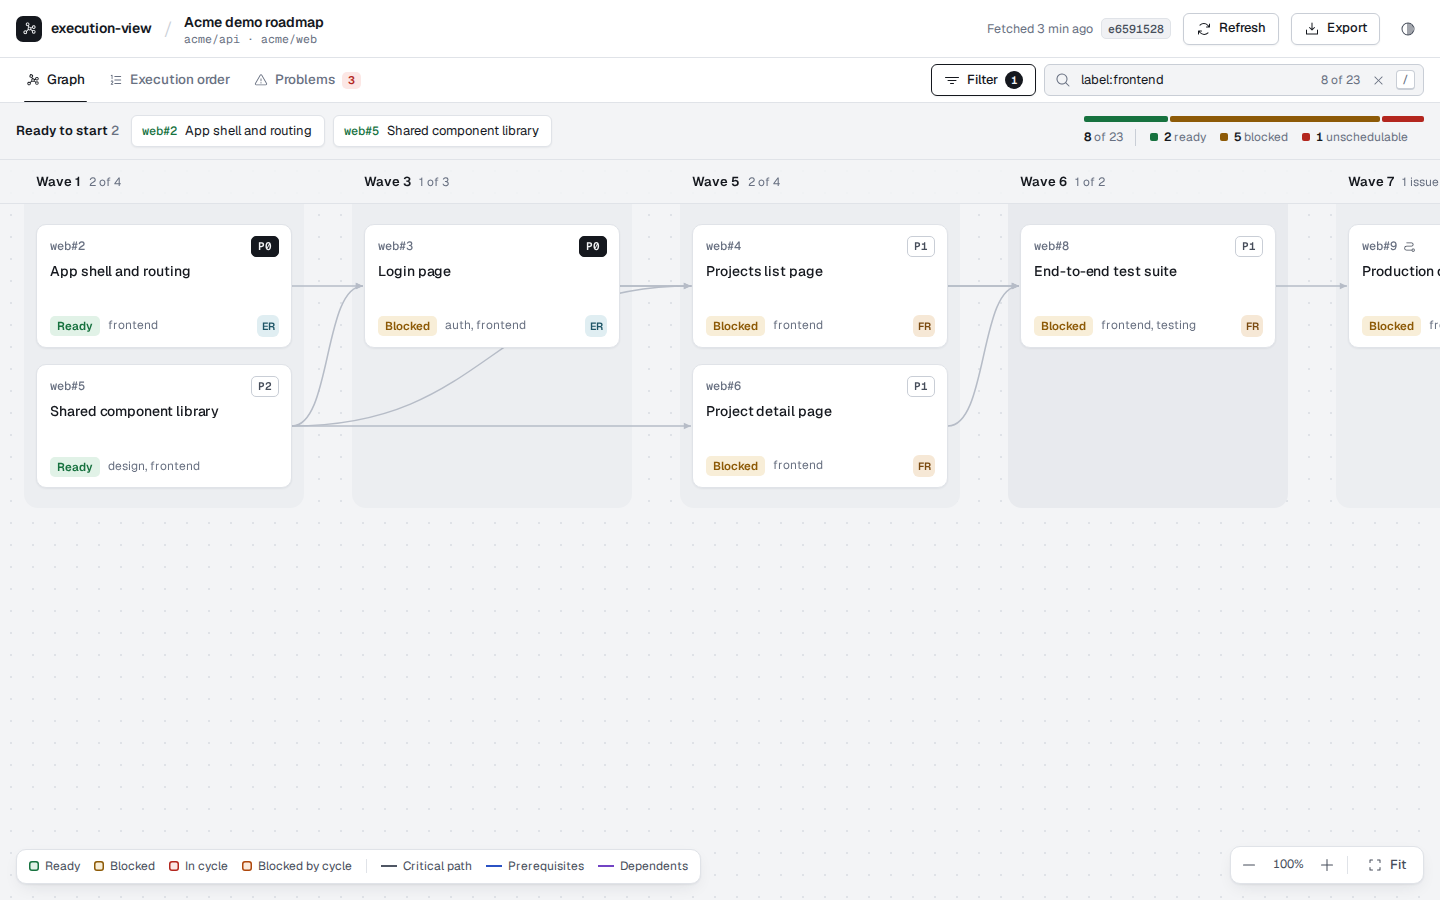
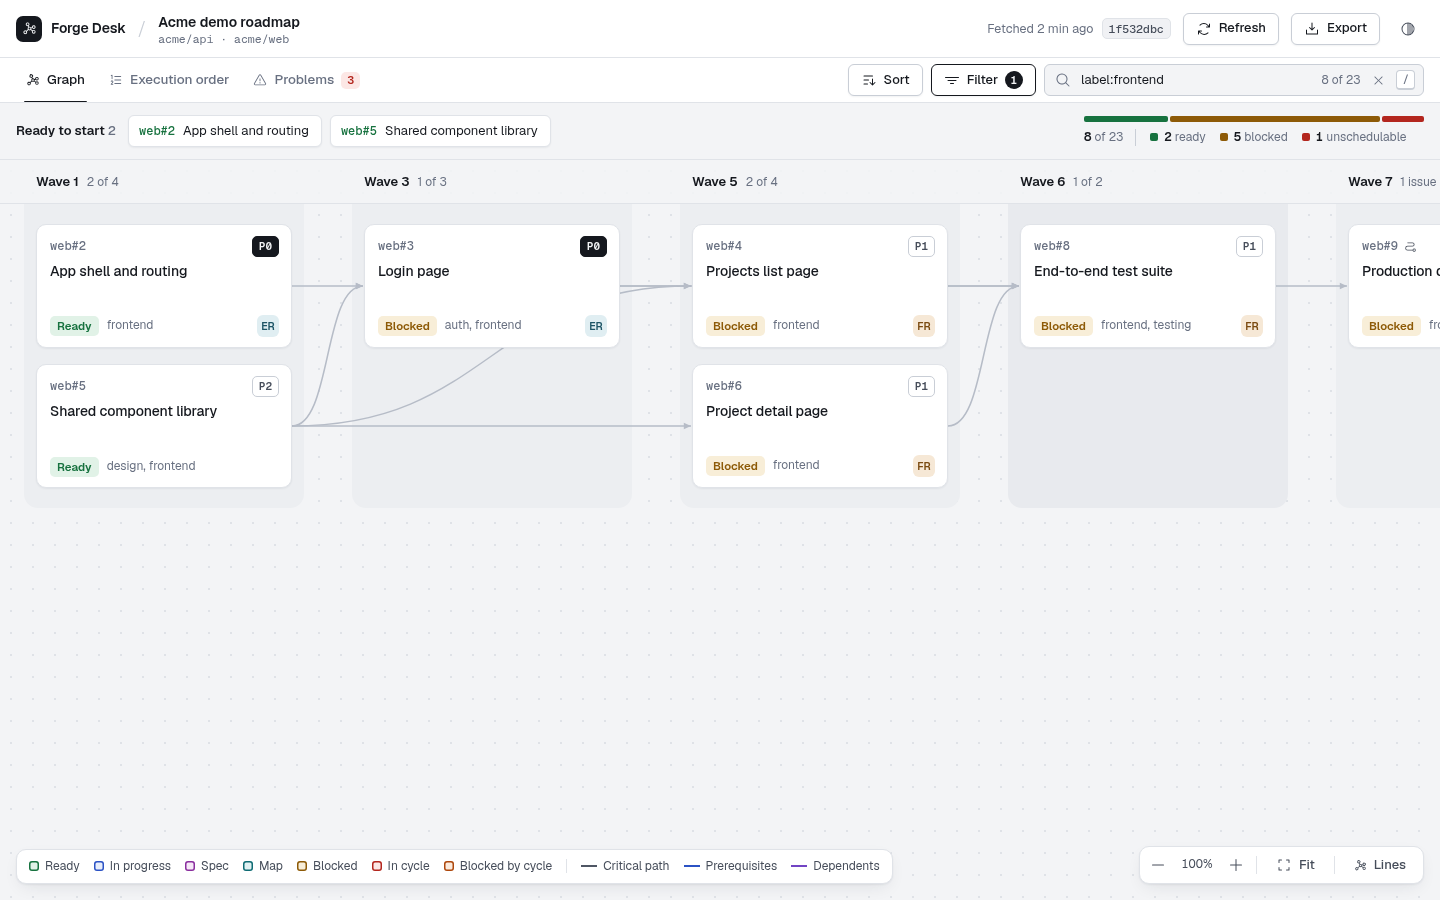
Show Forge Desk branding in the UI, CLI and docs
Rename the user-visible product strings: login page heading and title, app
header brand and version label, browser tab titles, the not-built page and the
web UI network error. Add a forge-desk executable next to the execution-view
compatibility alias; both run the same CLI, and help follows the invoked name
while execution-view output stays unchanged.

Describe the name change in the user and contributor docs, keep the image
registry path, and refresh the documentation screenshots. The npm package,
execution-view command, image, repository, User-Agent, DOT graph id,
localStorage keys and server log lines keep execution-view.

diff --git a/src/cli/main.test.ts b/src/cli/main.test.ts
@@ -6,7 +6,7 @@ import { afterEach, describe, expect, it, vi } from 'vitest';
 import { loadConfig } from '../config/load.js';
 import { exporters, type ExportFormat } from '../export/index.js';
 import { PlanService } from '../service/planService.js';
-import { main, type CliDeps, type CliIo } from './main.js';
+import { main, programNameFor, type CliDeps, type CliIo } from './main.js';
 
 const ROOT = fileURLToPath(new URL('../../', import.meta.url));
 const FIXED_NOW = new Date('2026-01-02T03:04:05.000Z');
@@ -411,6 +411,35 @@ describe('help and version', () => {
     const r = await run(['frobnicate']);
     expect(r.code).toBe(1);
     expect(r.stderr).toContain('frobnicate');
+  });
+});
+
+describe('executable names', () => {
+  it('installs forge-desk as the same CLI as the execution-view alias', async () => {
+    const pkg = JSON.parse(readFileSync(path.join(ROOT, 'package.json'), 'utf8')) as {
+      bin: Record<string, string>;
+    };
+    expect(pkg.bin).toEqual({
+      'forge-desk': 'dist/cli/index.js',
+      'execution-view': 'dist/cli/index.js',
+    });
+    expect(programNameFor('/usr/local/bin/forge-desk')).toBe('forge-desk');
+    expect(programNameFor('/usr/local/bin/execution-view')).toBe('execution-view');
+    expect(programNameFor('dist/cli/index.js')).toBe('execution-view');
+
+    // The renamed executable runs the same commands with the same output and exit code.
+    const legacy = await run(['views', '--config', 'config.demo.yaml']);
+    const renamed = await run(['views', '--config', 'config.demo.yaml'], {
+      programName: programNameFor('/usr/local/bin/forge-desk'),
+    });
+    expect(legacy.code).toBe(0);
+    expect(renamed).toEqual(legacy);
+
+    // Help and usage follow the invoked name; the alias name stays unchanged.
+    expect((await run(['--help'])).stdout).toContain('Usage: execution-view');
+    expect((await run(['--help'], { programName: 'forge-desk' })).stdout).toContain(
+      'Usage: forge-desk',
+    );
   });
 });
 

diff --git a/src/server/app.ts b/src/server/app.ts
@@ -35,10 +35,10 @@ const UI_NOT_BUILT_HTML = `<!doctype html>
   <head>
     <meta charset="utf-8" />
     <meta name="viewport" content="width=device-width, initial-scale=1" />
-    <title>execution-view</title>
+    <title>Forge Desk</title>
   </head>
   <body>
-    <h1>execution-view</h1>
+    <h1>Forge Desk</h1>
     <p>The web UI is not built. Run <code>npm run build</code> to create it.</p>
     <p>The API is available: <a href="/api/views">/api/views</a></p>
   </body>
@@ -57,7 +57,7 @@ function loginPage(failed: boolean): string {
     <meta charset="utf-8" />
     <meta name="viewport" content="width=device-width, initial-scale=1" />
     <meta name="color-scheme" content="light dark" />
-    <title>Log in · execution-view</title>
+    <title>Log in · Forge Desk</title>
     <script>
       try {
         var theme = localStorage.getItem('execution-view:theme');
@@ -156,7 +156,7 @@ function loginPage(failed: boolean): string {
   </head>
   <body>
     <form method="post" action="login">
-      <h1>execution-view</h1>
+      <h1>Forge Desk</h1>
       ${failed ? '<p class="error" role="alert">Wrong user name or password.</p>' : ''}
       <label for="username">User name</label>
       <input id="username" name="username" autocomplete="username" required autofocus />

diff --git a/src/server/app.test.ts b/src/server/app.test.ts
@@ -406,6 +406,8 @@ describe('login page', () => {
     expect(res.statusCode).toBe(200);
     expect(res.headers['content-type']).toContain('text/html');
     expect(res.body).toContain('<form method="post" action="login">');
+    expect(res.body).toContain('<title>Log in · Forge Desk</title>');
+    expect(res.body).toContain('<h1>Forge Desk</h1>');
     expect(res.body).toContain('name="username" autocomplete="username"');
     expect(res.body).toMatch(/name="password"\s+type="password"\s+autocomplete="current-password"/);
   });
@@ -688,6 +690,8 @@ describe('static UI', () => {
     expect(res.statusCode).toBe(200);
     expect(res.headers['content-type']).toContain('text/html');
     expect(res.body).toContain('not built');
+    expect(res.body).toContain('<title>Forge Desk</title>');
+    expect(res.body).toContain('<h1>Forge Desk</h1>');
     expect(res.body).toContain('href="/api/views"');
     const other = await app.inject({ url: '/deep', headers: { accept: 'text/html' } });
     expect(other.statusCode).toBe(404);

diff --git a/src/cli/main.ts b/src/cli/main.ts
@@ -22,6 +22,13 @@ export interface CliDeps {
   providerFor?: (source: ResolvedSource) => IssueProvider;
   now?: () => Date;
   startServer?: typeof startServer;
+  /** Name shown in help and usage. Default: the `execution-view` compatibility name. */
+  programName?: string;
+}
+
+/** The name this CLI was installed as: `forge-desk`, or its `execution-view` compatibility name. */
+export function programNameFor(invokedPath: string | undefined): string {
+  return path.basename(invokedPath ?? '') === 'forge-desk' ? 'forge-desk' : 'execution-view';
 }
 
 /** Exit codes. */
@@ -260,7 +267,7 @@ export async function main(argv: string[], io: CliIo, deps: CliDeps = {}): Promi
 
   const program = new Command();
   program
-    .name('execution-view')
+    .name(deps.programName ?? 'execution-view')
     .description('Deterministic dependency graph and execution order for open issues')
     .version(packageVersion())
     .option(

diff --git a/web/src/views/header.ts b/web/src/views/header.ts
@@ -238,7 +238,7 @@ export function createHeader(ctx: ViewCtx): View {
               h('button', { class: 'menu-item', type: 'submit', role: 'menuitem' }, 'Log out'),
             ),
           ]),
-      ...(version === null ? [] : [h('div', { class: 'menu-label' }, `execution-view ${version}`)]),
+      ...(version === null ? [] : [h('div', { class: 'menu-label' }, `Forge Desk ${version}`)]),
     ],
   );
 
@@ -249,7 +249,7 @@ export function createHeader(ctx: ViewCtx): View {
       'div',
       { class: 'brand' },
       h('span', { class: 'brand-mark', 'aria-hidden': 'true' }, icon('graph', 15)),
-      h('span', { class: 'brand-name' }, 'execution-view'),
+      h('span', { class: 'brand-name' }, 'Forge Desk'),
     ),
     h('span', { class: 'crumb-sep', 'aria-hidden': 'true' }, '/'),
     h('div', { class: 'view-switch' }, select, icon('chevron', 13), repos),

diff --git a/src/cli/index.ts b/src/cli/index.ts
@@ -1,15 +1,19 @@
 #!/usr/bin/env node
-import { main } from './main.js';
+import { main, programNameFor } from './main.js';
 
 // Setting exitCode (instead of calling process.exit) lets `serve` keep running:
 // the listening server holds the event loop open.
-main(process.argv.slice(2), {
-  stdout: (s) => void process.stdout.write(s),
-  stderr: (s) => void process.stderr.write(s),
-  env: process.env,
-  cwd: process.cwd(),
-  isTTY: process.stdout.isTTY === true,
-}).then(
+main(
+  process.argv.slice(2),
+  {
+    stdout: (s) => void process.stdout.write(s),
+    stderr: (s) => void process.stderr.write(s),
+    env: process.env,
+    cwd: process.cwd(),
+    isTTY: process.stdout.isTTY === true,
+  },
+  { programName: programNameFor(process.argv[1]) },
+).then(
   (code) => {
     process.exitCode = code;
   },

diff --git a/web/src/api.ts b/web/src/api.ts
@@ -28,7 +28,7 @@ async function request<T>(path: string, init?: RequestInit): Promise<T> {
   try {
     res = await fetch(path, { ...init, headers: { accept: 'application/json' } });
   } catch {
-    throw new ApiError('Network error: could not reach the execution-view server.', 0);
+    throw new ApiError('Network error: could not reach the Forge Desk server.', 0);
   }
   if (res.status === 401) {
     // The session ended (logout or a server restart): log in again, keeping the shared link.

diff --git a/web/src/main.ts b/web/src/main.ts
@@ -158,7 +158,7 @@ store.subscribe((state) => {
 
 function titleFor(state: ReturnType<Store['get']>): string {
   const view = state.views?.find((v) => v.id === effectiveViewId(state));
-  return view ? `${view.title} · execution-view` : 'execution-view';
+  return view ? `${view.title} · Forge Desk` : 'Forge Desk';
 }
 
 window.addEventListener('hashchange', () => {

diff --git a/web/index.html b/web/index.html
@@ -3,7 +3,7 @@
   <head>
     <meta charset="UTF-8" />
     <meta name="viewport" content="width=device-width, initial-scale=1.0" />
-    <title>execution-view</title>
+    <title>Forge Desk</title>
     <meta name="color-scheme" content="light dark" />
     <link
       rel="icon"

diff --git a/README.md b/README.md
@@ -1,8 +1,14 @@
-# execution-view
+# Forge Desk
 
-execution-view is a small self-hosted app that reads the **open issues** of your GitHub, GitHub Enterprise Server or Gitea repositories, builds a **dependency graph** from the relations you already declare (native issue dependencies and simple `Depends on #12` lines in issue bodies), and turns it into an **execution order**: what can start now, what can run in parallel, and what blocks everything else. The output is fully deterministic: the same issues always give the same order, the same layout and the same content hash. It has a web UI, a REST API, exports (JSON, Markdown, Mermaid, DOT) and a CLI that checks your setup.
+Forge Desk is a small self-hosted app that reads the **open issues** of your GitHub, GitHub Enterprise Server or Gitea repositories, builds a **dependency graph** from the relations you already declare (native issue dependencies and simple `Depends on #12` lines in issue bodies), and turns it into an **execution order**: what can start now, what can run in parallel, and what blocks everything else. The output is fully deterministic: the same issues always give the same order, the same layout and the same content hash. It has a web UI, a REST API, exports (JSON, Markdown, Mermaid, DOT) and a CLI that checks your setup. Planning is the existing execution-view capability: the same planner, relation format, configuration, URLs and exports.
 
 ![Dependency graph of the demo roadmap](docs/screenshots/graph.png)
+
+## The name
+
+The product is **Forge Desk**. It was previously called execution-view, and that name stays wherever tools and scripts depend on it: the npm package, the `execution-view` CLI alias, the Docker image, the repository, the HTTP `User-Agent`, the DOT export graph id, the `localStorage` keys and the server log lines.
+
+The CLI installs as both `forge-desk` and `execution-view`, and both run the same commands with the same output and exit codes. The image keeps its current registry path, `ghcr.io/brunoorsolon/execution-view`; a new registry identity is a separate decision. Config syntax, `EV_*` variables, API paths, shared planning URLs, exports and planning login are unchanged, so upgrading needs no rename, environment-variable change or registry migration.
 
 ## Features
 
@@ -236,7 +242,7 @@ Agents that write your issues can be given the same rules: copy the [`skills/exe
 
 ## CLI
 
-The CLI reads the same config as the server (`--config <path>`, then `EV_CONFIG`, then `./config.yaml`, then env-only mode). After `npm run build` it is `node dist/cli/index.js` (also installed as the `execution-view` bin; the Docker image uses it as its entrypoint).
+The CLI reads the same config as the server (`--config <path>`, then `EV_CONFIG`, then `./config.yaml`, then env-only mode). After `npm run build` it is `node dist/cli/index.js` (also installed as the `forge-desk` and `execution-view` bins; the Docker image uses it as its entrypoint).
 
 | Command                                                      | What it does                                                                                       |
 | ------------------------------------------------------------ | -------------------------------------------------------------------------------------------------- |

diff --git a/docs/ARCHITECTURE.md b/docs/ARCHITECTURE.md
@@ -1,4 +1,6 @@
-# execution-view: architecture and contracts
+# Forge Desk: architecture and contracts
+
+> **Name.** The product is called **Forge Desk**. "execution-view" remains the package, image, repository and CLI alias name used throughout this document, and the image keeps its current registry path `ghcr.io/brunoorsolon/execution-view`.
 
 > **Status.** This document was the **implementation contract** for the first
 > version. The code follows it, with the deviations listed below; where they
@@ -756,7 +758,7 @@ Errors: unknown view → 404 `{ error }`; a provider error → 502 `{ error }`
 (no token in the message). Optional basic auth protects everything except
 `/healthz`.
 
-## 15. CLI (`src/cli/index.ts`, bin `execution-view`)
+## 15. CLI (`src/cli/index.ts`, bins `forge-desk` and `execution-view`)
 
 - `execution-view serve [--config p]` starts the server.
 - `execution-view views [--config p]` lists views.

diff --git a/docs/API.md b/docs/API.md
@@ -1,6 +1,6 @@
 # HTTP API
 
-The server (`execution-view serve`, or `npm start`) exposes a small JSON API next to the web UI (read-only, apart from the optional webhook receivers). All paths are at the root (there is no base-path option). The examples assume a local server on port 8080 started with the demo config:
+The Forge Desk server (`execution-view serve`, or `npm start`) exposes a small JSON API next to the web UI (read-only, apart from the optional webhook receivers). All paths are at the root (there is no base-path option). The examples assume a local server on port 8080 started with the demo config:
 
 ```sh
 EV_CONFIG=config.demo.yaml npm start
